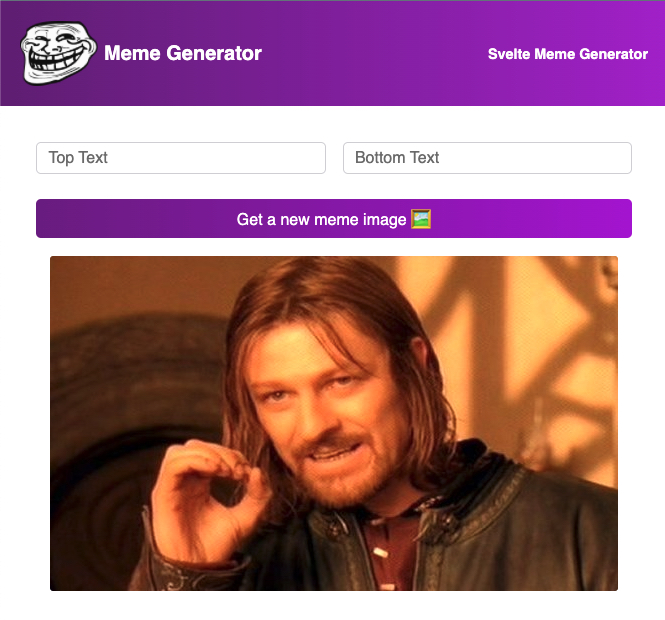
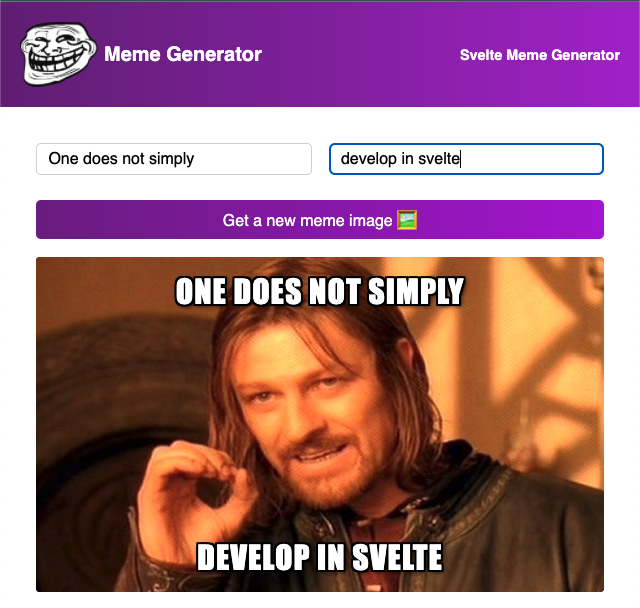
readme fix

Changed region(s): [[0.0312, 0.2188, 0.9688, 1.0], [0.0, 0.0, 1.0, 0.1875], [0.7188, 0.0625, 1.0, 0.125]]

diff --git a/README.md b/README.md
@@ -18,7 +18,7 @@ User should be able to:
 
 ## Screenshot
 
-![App Screenshot](https://i.imgur.com/akxGPyX.jpg)
+![App Screenshot](https://i.imgur.com/TOV3hr9.jpg)
 
 ## My process
 
